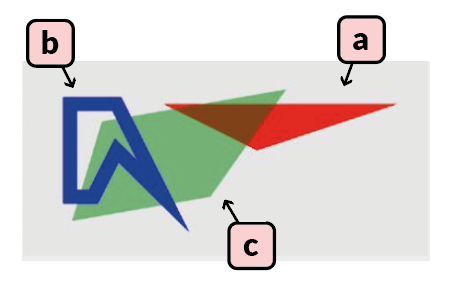
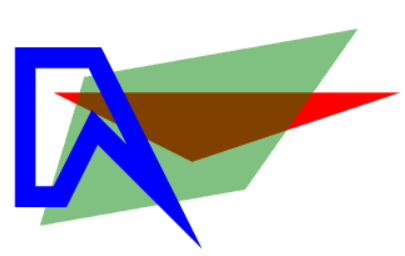
Update and add images to examples in UI page

diff --git a/docs/create_an_exercise/UI.md b/docs/create_an_exercise/UI.md
@@ -4,6 +4,8 @@ contributors:
   - Henrik Rostedt
   - Admin
   - Henrik
+width:
+  standard: 250px
 ---
 
 This article goes through how to use the Freecode canvas and the UI library.
@@ -29,7 +31,11 @@ If you use [`StageChallenge`](Skeletons.md#stagechallenge) or [`GameChallenge`](
     ```
 
 !!! note
-    You neither specify parent nor position in `setup_view`, this is done for you.
+    You specify neither parent nor position in `setup_view`, this is done for you.
+
+Either way you will get a canvas containing only a green square.
+
+![](../assets/Setup_element_example.png){loading=lazy, width={{ page.meta.width.standard }}}
 
 
 ## Overview
@@ -70,8 +76,9 @@ All these elements can be imported from the `lib.ui` package, along with any of 
     ```
     from lib.ui import Rectangle, Text
 
-    my_rect = Rectangle(children=[Text("Hello")])
+    my_rect = Rectangle(children=[Text("Hello", color="white", font_size=30)])
     ```
+    ![](../assets/Child_element_example.png){loading=lazy, width={{ page.meta.width.standard }}}
 
 Remember to add the element to the import list, or you will get an error.
 
@@ -103,11 +110,19 @@ General attributes/methods:
 
 ???+ example "Creating three `Rectangle` objects"
     ```
-    a = Rectangle(w=4, h=2, x=3, y=3, color="#FF6347")
-    b = Rectangle(w=2, h=2, x=2, y=2, color="red", rotation=60)
-    c = Rectangle(w=2, h=2, x=3, y=3, color="green", rotation=-20, stroke=0.2, opacity=0.3)
+    self.my_rectangle = Rectangle(color="white", children = [
+        
+        # Wide rectangle
+        Rectangle(w=4, h=2, x=0, y=0, color="#FF6347"),
+        
+        # Rotated square
+        Rectangle(w=2, h=2, x=-1, y=-1, color="red", rotation=60),
+        
+        # Hollow square
+        Rectangle(w=2, h=2, x=0, y=0, color="green", rotation=-20, stroke=0.2, opacity=0.3)
+    ])
     ```
-    ![Three rectangles](../assets/Three_rectangles.png){loading=lazy}
+    ![](../assets/Three_rectangles.png){loading=lazy, width={{ page.meta.width.standard }}}
 
 
 #### `Circle`
@@ -137,11 +152,19 @@ General attributes/methods:
 
 ???+ example "Creating three `Circle` objects"
     ```
-    a = Circle(r=1, color="red")
-    b = Circle(r=1, color="blue", x=2, y=1)
-    c = Circle(r=0.8, color="green", x=1, y=1, stroke=0.1)
+    self.my_rectangle = Rectangle(color="white", children = [
+        
+        # Red circle
+        Circle(r=1, color="red", x=-1),
+        
+        # Blue circle
+        Circle(r=1, color="blue", x=1, y=1),
+        
+        # Green ring
+        Circle(r=0.8, color="green", x=0, y=1, stroke=0.1)
+    ])
     ```
-    ![Three circles](../assets/Three_circles.png){loading=lazy}
+    ![](../assets/Three_circles.png){loading=lazy, width={{ page.meta.width.standard }}}
 
 
 #### `Polygon`
@@ -166,11 +189,18 @@ General attributes/methods:
 
 ???+ example "Creating three `Polygon` objects"
     ```
-    a = Polygon([(0, 0), (5, 0), (2, 1)], color="red", x=3, y=1, z_index = 1)
-    b = Polygon([(0, 0), (0, 2), (0.5, 2), (1, 1), (2, 2), (1, 0)], color="blue", x=1, y=1, stroke=0.3, z_index=3)
-    c = Polygon([(0, 0), (-2, 2), (2, 2), (3, 0)], color="green", x=4, y=3, opacity=0.5, rotation=170, z_index=2)
+    self.my_rectangle = Rectangle(color="white", children = [
+        # Red triangle
+        Polygon([(0, 0), (5, 0), (2, 1)], color="red", x=0.4, y=0, z_index = 1),
+        
+        # Blue line
+        Polygon([(0, 0), (0, 2), (0.5, 2), (1, 1), (2, 2), (1, 0)], color="blue", x=-1.5, y=0, stroke=0.3, z_index=3),
+        
+        # Green quadrilateral
+        Polygon([(0, 0), (-2, 2), (2, 2), (3, 0)], color="green", x=0, y=0, opacity=0.5, rotation=170, z_index=2)
+    ])
     ```
-    ![Three polygons](../assets/Three_polygons.png){loading=lazy}
+    ![](../assets/Three_polygons.png){loading=lazy, width={{ page.meta.width.standard }}}
 
 
 #### `ComplexShape`
@@ -202,8 +232,11 @@ General attributes/methods:
 
 ???+ example "Creating a `ComplexShape`"
     ```
-    ComplexShape([[(0,_0)],_[(5,_5),_(0,_10)],_[(10,_10)],_[(5,_5),_(15,_5),_(10,_0)|(0, 0)], [(5, 5), (0, 10)], [(10, 10)], [(5, 5), (15, 5), (10, 0)]], color="green")
+    self.my_rectangle = Rectangle(color="white", children = [
+        ComplexShape([[(0, 0)], [(5, 5), (0, 10)], [(10, 10)], [(5, 5), (15, 5), (10, 0)], [(0, 0)], [(5, 5), (0, 10)], [(10, 10)], [(5, 5), (15, 5), (10, 0)]], color="green")
+    ])
     ```
+    ![](../assets/ComplexShape_example.png){loading=lazy, width={{ page.meta.width.standard }}}
 
 
 ### Text
@@ -237,8 +270,11 @@ General attributes/methods:
 
 ???+ example "Creating a `Text`"
     ```
-    Text("Hello World!", font_size=10, color="yellow")
+    self.my_rectangle = Rectangle(color="white", children = [
+        Text("Hello\nWorld!", font_size=5, color="orange")
+    ])
     ```
+    ![](../assets/Text_example.png){loading=lazy, width={{ page.meta.width.standard }}}
 
 
 #### `DynamicText`
@@ -270,7 +306,9 @@ General attributes/methods:
 
 ???+ example "Creating a `DynamicText`"
     ```
-    DynamicText("Hello World!", font_size=10, color="yellow", w=40, h=10)
+    self.my_rectangle = Rectangle(color="white", children = [
+        DynamicText("Hello\nWorld!", font_size=5, color="orange", w=10)
+    ])
     ```
 
 
@@ -301,8 +339,11 @@ General attributes/methods:
 
 ???+ example "Creating an `HtmlArea`"
     ```
-    HtmlArea("Hello <b>World</b>!", font_size=5, w=50, h=20, disable_scroll=True, disable_auto_font_scale=True)
+    self.my_rectangle = Rectangle(color="white", children = [
+        HtmlArea("Hello <b>World</b>!", font_size=4, w=15, h=15, disable_scroll=True, disable_auto_font_scale=True)
+    ])
     ```
+    ![](../assets/HtmlArea_example.png){loading=lazy, width={{ page.meta.width.standard }}}
 
 
 ### Graphics
@@ -329,11 +370,18 @@ General attributes/methods:
 
 ???+ example "Creating three `Image` objects"
     ```
-    a = Image("striped_cat.png", w=4, h=4)
-    b = Image("striped_cat.png", w=4, h=4, x=4, y=1.5)
-    c = Image("striped_cat.png", w=8, h=4, x=4, y=2, rotation=20, color="red". opacity=0.3, z_index=-1, scale_x=-1)
+    self.my_rectangle = Rectangle(color="white", children = [
+        # Left cat
+        Image("std_katniss_standing.webp", w=4, h=3),
+        
+        # Slightly squished cat
+        Image("std_katniss_standing.webp", w=4, h=2, x=4, y=1.5),
+        
+        # Red background cat
+        Image("std_katniss_standing.webp", w=8, h=4, x=2, y=2, rotation=20, color="red", opacity=0.3, z_index=-1, scale_x=-1)
+    ])
     ```
-    ![Three images](../assets/Three_bitmaps.png){loading=lazy}
+    ![](../assets/Three_bitmaps.png){loading=lazy, width={{ page.meta.width.standard }}}
 
 !!! note
     There are many images provided by the framework that can be accessed simply by using their names as the `image` string.
@@ -373,7 +421,7 @@ General attributes/methods:
     b = Sprite("weird_sheet.png", w=2, h=2, x=3, y=1, start=2, end=0, scale_x=-1)
     c = Sprite("weird_sheet.png", w=1.5, h=2, x=5, y=1, animation="just_display_guy")
     ```
-    ![Three sprites](../assets/Three_spritesheets.png){loading=lazy}
+    ![](../assets/Three_spritesheets.png){loading=lazy, width={{ page.meta.width.standard }}}
 
 
 ### Containers
@@ -446,6 +494,7 @@ All positional arguments are added as children.
     ```
     Horizontal(Rectangle(color="yellow"), Rectangle(color="magenta"), Rectangle(color="cyan"))
     ```
+    ![](../assets/Horizontal_example.png){loading=lazy}
 
 
 #### `Vertical`
@@ -465,6 +514,7 @@ All positional arguments are added as children.
     ```
     Vertical(*[Text(str(i)) for i in range(5)], spacing=5)
     ```
+    ![](../assets/Vertical_example.png){loading=lazy}
 
 
 #### `Grid`
@@ -496,6 +546,7 @@ All positional arguments are added as children.
     ```
     Grid(*[Text(str(i)) for i in range(20)], columns=5, w=30, h=30, spacing=5)
     ```
+    ![](../assets/Grid_example.png){loading=lazy}
 
 
 ### Controls
@@ -639,6 +690,7 @@ General attributes/methods:
     ```
     Panel(w=50, h=50, content=Circle(color="blue"), title="My Panel")
     ```
+    ![](../assets/Panel_example.png){loading=lazy, width={{ page.meta.width.standard }}}
 
 
 #### `Toolbar`
@@ -673,6 +725,7 @@ General attributes/methods:
         center_children=[Text("TOOLBAR")],
     )
     ```
+    ![](../assets/Toolbar_example.png){loading=lazy, width={{ page.meta.width.standard }}}
 
 
 #### `Popup`
@@ -771,11 +824,12 @@ General attributes/methods:
     def callback(event):
         event.source.color = "orange"
 
-    board = Board(size=80)
+    board = Board(size=64)
     for r in range(board.rows):
         for c in range(board.columns):
             board[r, c] = Circle(scale=0.9, color="green", on_click=callback)
     ```
+    ![](../assets/Board_example.png){loading=lazy, width={{ page.meta.width.standard }}}
 
 
 #### `Stage`
@@ -1211,7 +1265,7 @@ We want to have a rectangle that tips over and lands on one side.
 The rectangle should be 2 units wide, 8 units high, and have its pivot offset from the center to its lower right corner.
 We will also offset it 6 units to the right and 9 units down to make it easier to see.
 If we do all this it should be placed like in the image below:
-![Our rectangle](../assets/Falling_rectangle_coordinates.png){loading=lazy}
+![](../assets/Falling_rectangle_coordinates.png){loading=lazy, width={{ page.meta.width.standard }}}
 !!! note
     The coordinate (0, 0) is in the upper left corner, x grows to the right, and y grows downwards.
 !!! note
@@ -1229,7 +1283,7 @@ To make the fall look somewhat natural we will divide it up like this:
 * The rectangle will rotate 45 degrees the first 70% of the second time step
 * The rectangle will rotate 45 degrees more during the remaining 30% of the second time step
 
-![Rectangle time chart](../assets/Animation_of_falling_rectangle_explanation_figure.png){loading=lazy}
+![](../assets/Animation_of_falling_rectangle_explanation_figure.png){loading=lazy, width={{ page.meta.width.standard }}}
 
 ???+ example "Code for defining our rectangle's fall"
     ```
@@ -1243,7 +1297,7 @@ To make the fall look somewhat natural we will divide it up like this:
 
 The end result will look like this:
 
-![Falling rectangle](../assets/Falling_rectangle.gif){loading=lazy}
+![](../assets/Falling_rectangle.gif){loading=lazy, width={{ page.meta.width.standard }}}
 
 Freecode that implements this animation: [Freecode](https://futureskill.com/freecode-creator/602e752d1667cc6d98aee706)
 !!! note
